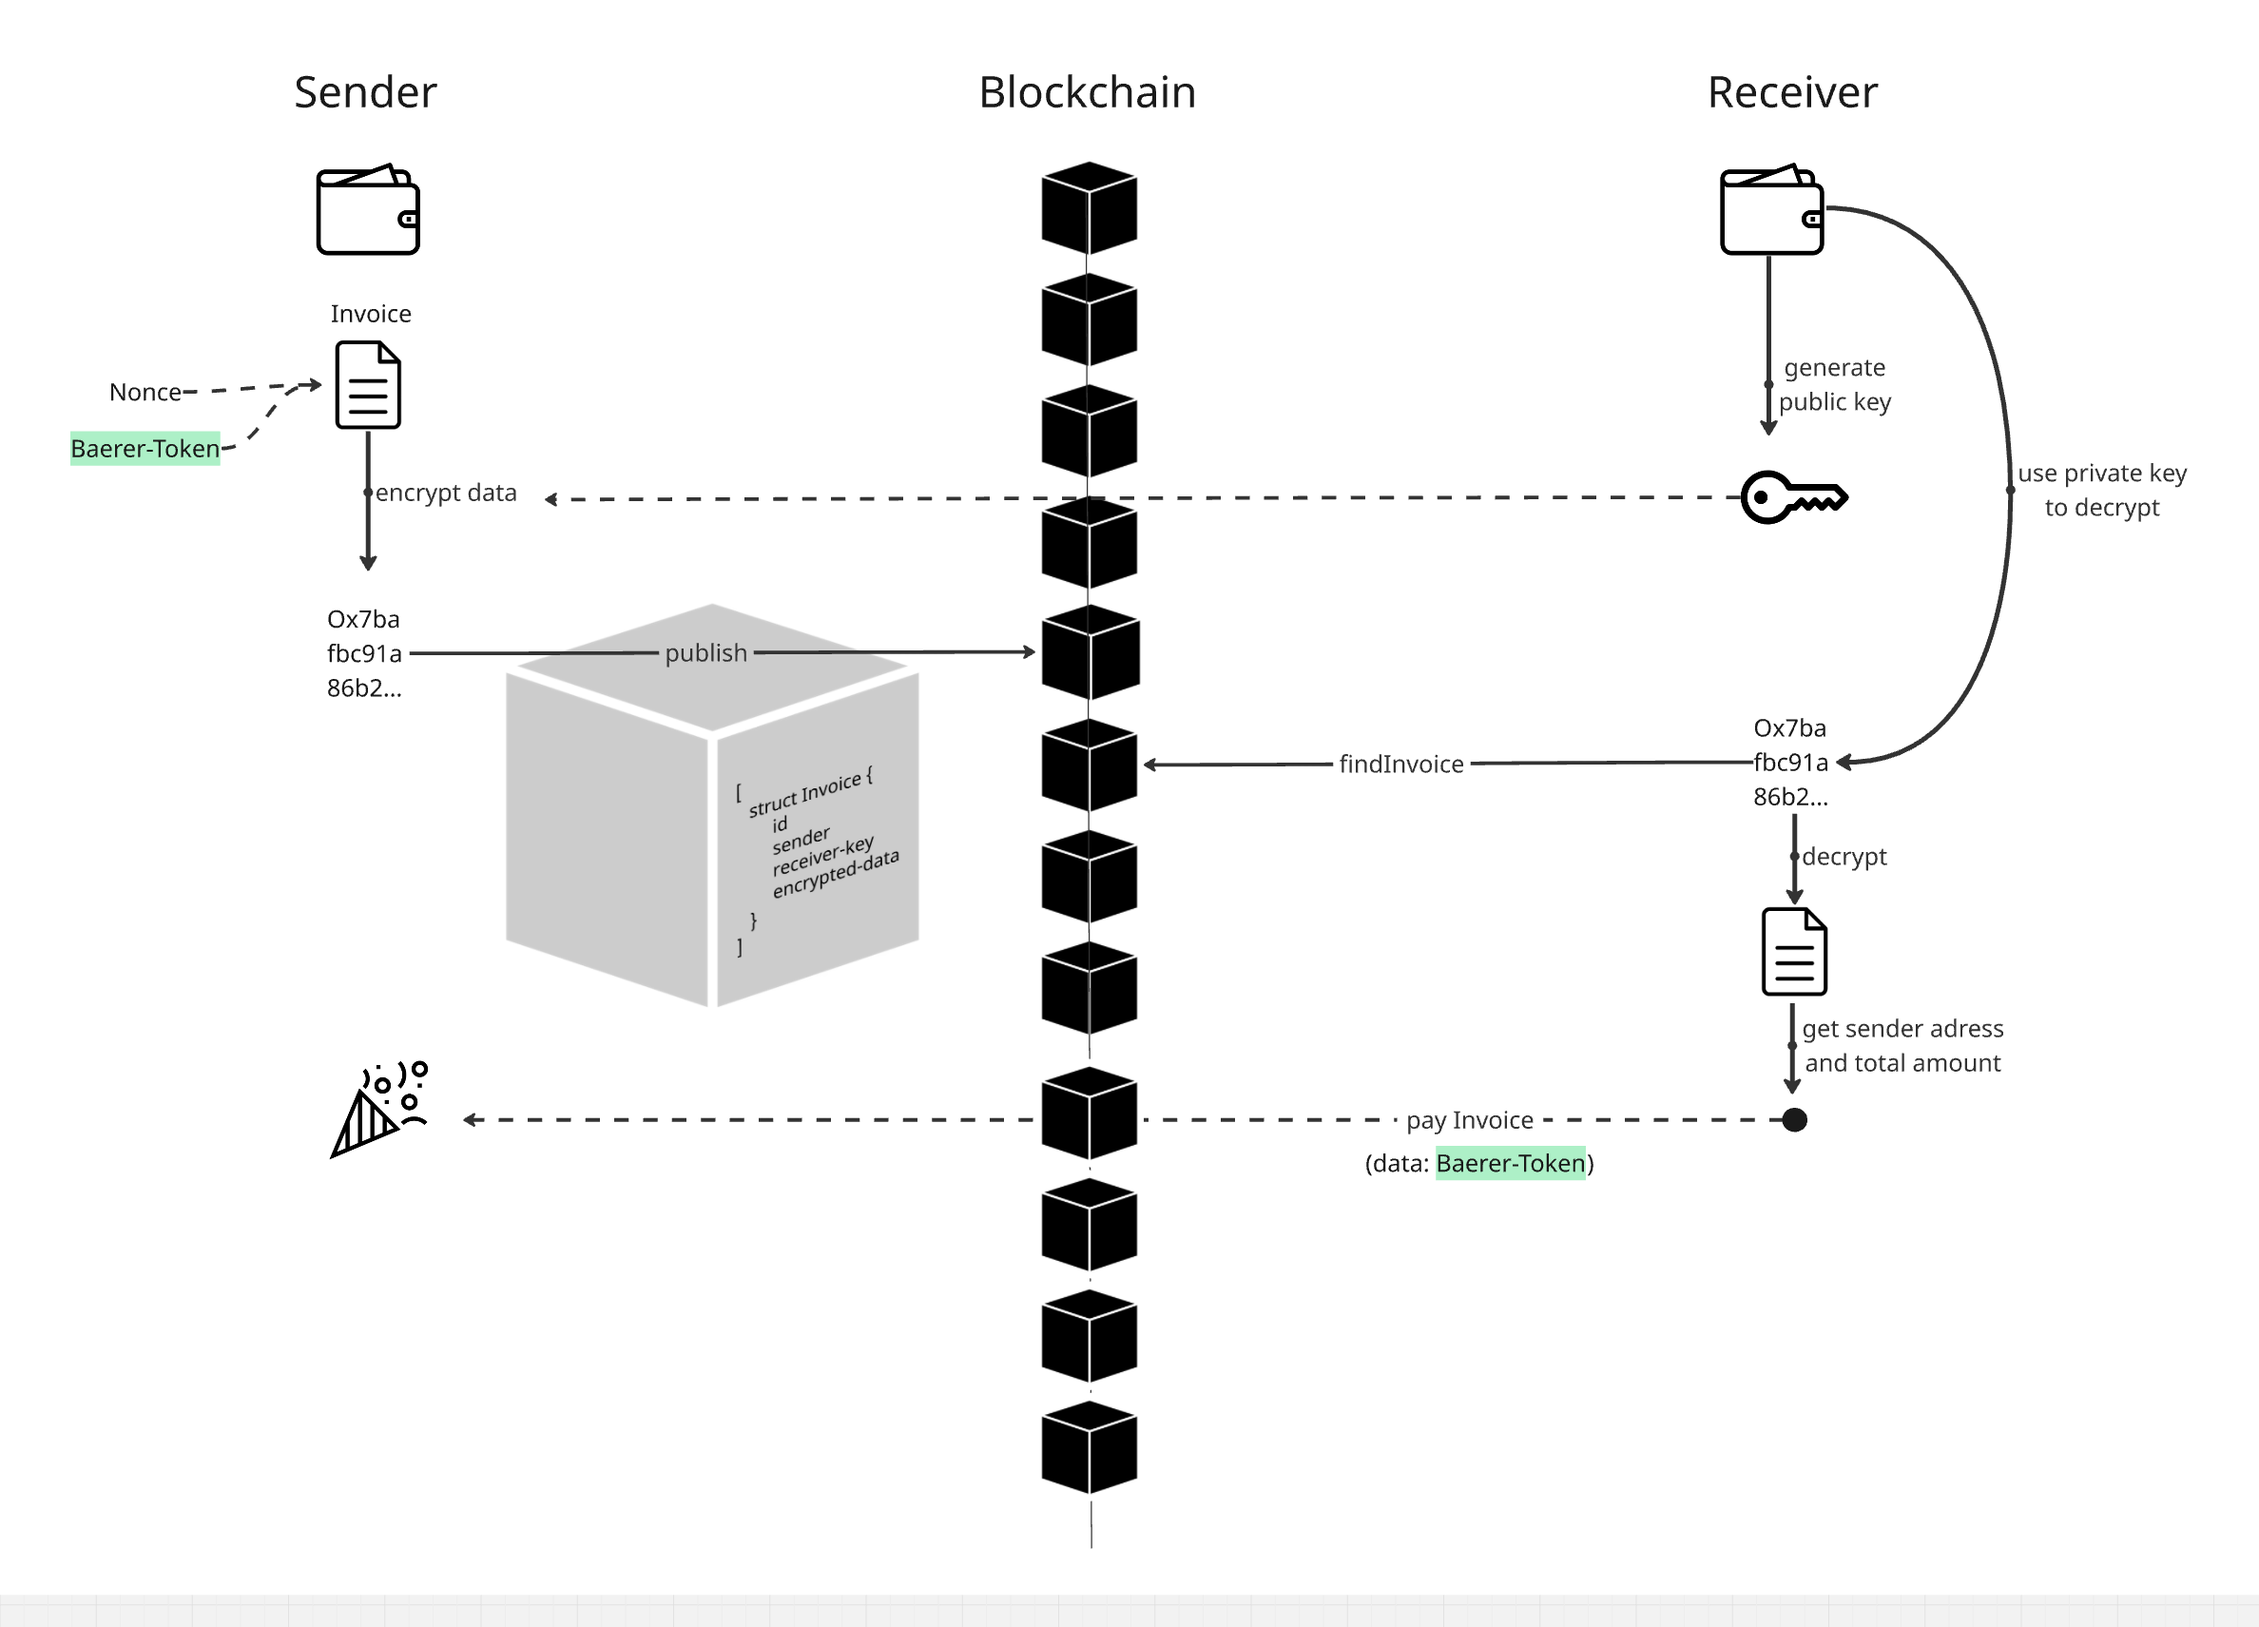
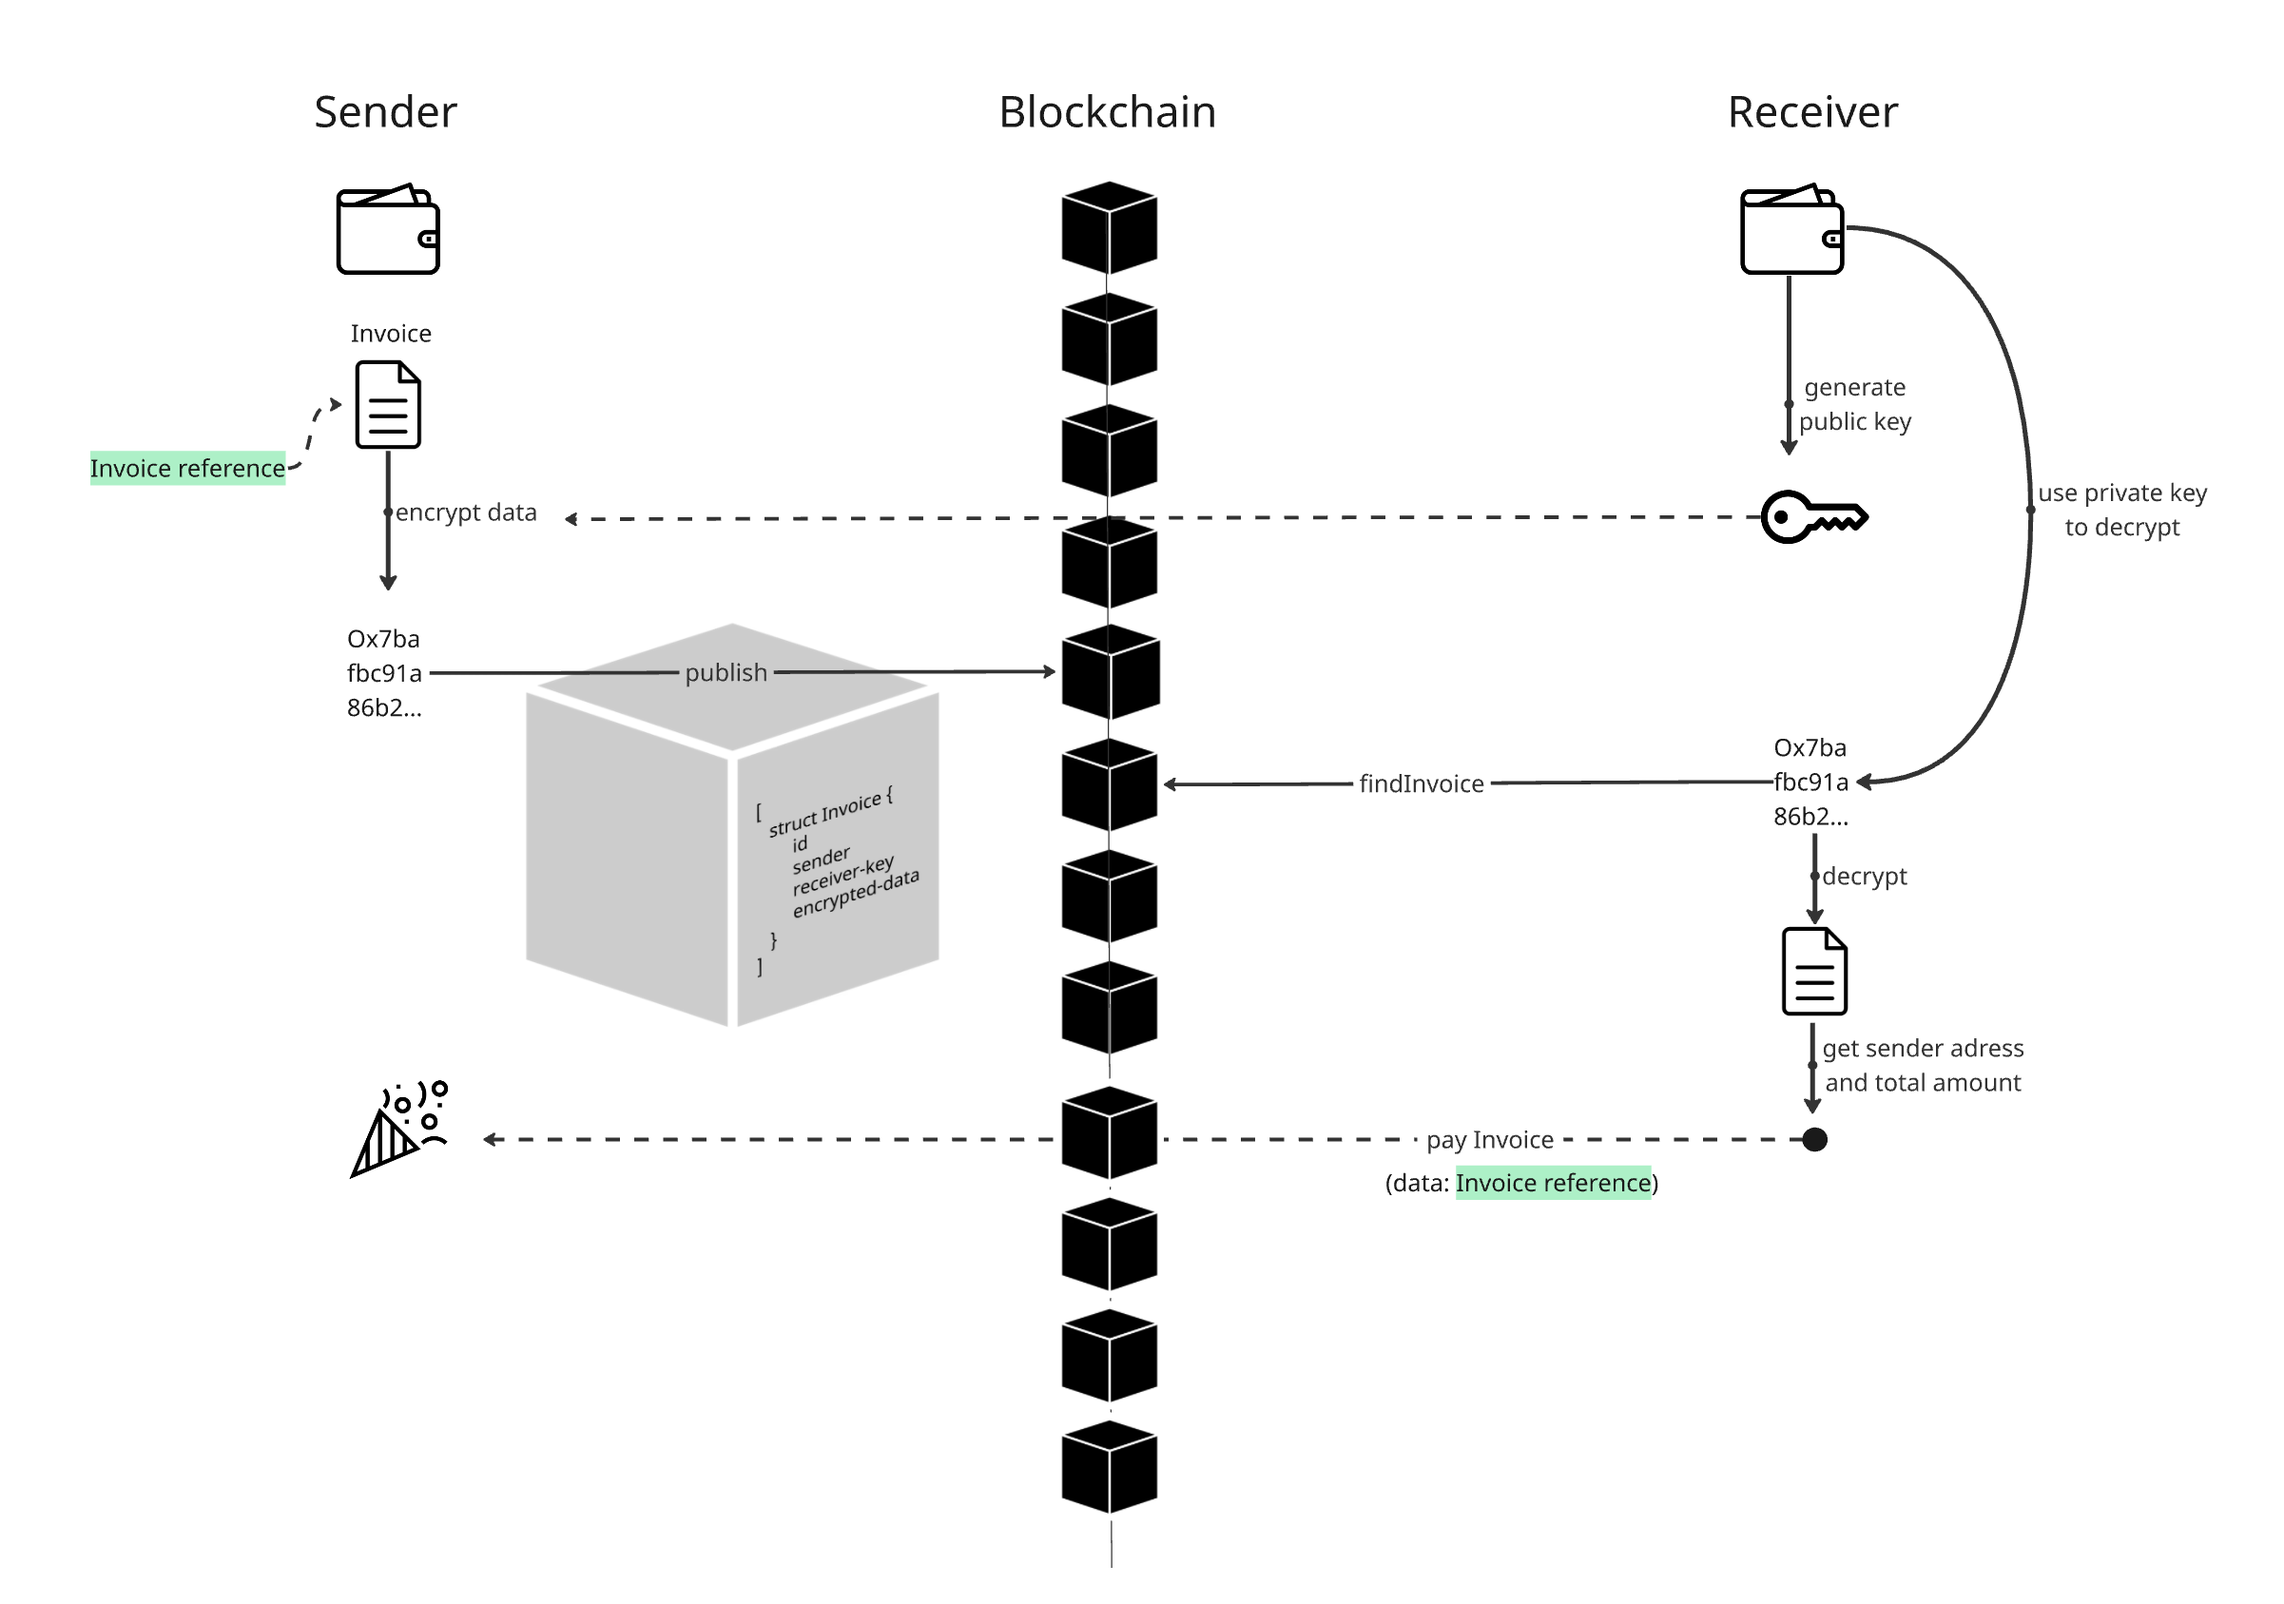
fix: rename baeer-token to invoice-reference and clean

diff --git a/src/SenderView.jsx b/src/SenderView.jsx
@@ -6,19 +6,7 @@ import { bufferToHex } from 'ethereumjs-util';
 
 const ENCRYPTION_VERSION = 'x25519-xsalsa20-poly1305'
 
-function generateId() {
-  return '0x' + Array.from(crypto.getRandomValues(new Uint8Array(32)))
-    .map(b => b.toString(16).padStart(2, '0')).join('');
-}
-
-function generateRandomNumber(length = 16) {
-  const array = new Uint8Array(length);
-  window.crypto.getRandomValues(array);
-  return Array.from(array, b => b.toString(16).padStart(2, '0')).join('');
-}
-
-// Replace generateRandomNumber for bearerToken with a function that generates a hex value of desired length
-function generateBearerTokenHex(length = 32) {
+function generateInvoiceReference(length = 32) {
   const array = new Uint8Array(length);
   window.crypto.getRandomValues(array);
   return '0x' + Array.from(array, b => b.toString(16).padStart(2, '0')).join('');
@@ -120,8 +108,6 @@ export default function SenderView({ account, setAccount, connectMetaMask, jsonD
   const [vat, setVat] = useState("8.1"); 
   const [jsonInput, setJsonInput] = useState("");
   const [errors, setErrors] = useState({});
-  const [invoice, setInvoice] = useState(null);
-
   const [lineItems, setLineItems] = useState([]);
   const [paymentDueDate, setPaymentDueDate] = useState("");
 
@@ -161,8 +147,7 @@ export default function SenderView({ account, setAccount, connectMetaMask, jsonD
       totalAmount,
       totalAmountWithVat,
       paymentDueDate,
-      nonce: generateRandomNumber(),
-      bearerToken: generateBearerTokenHex() // <-- hex value as bearerToken
+      invoiceReference: generateInvoiceReference() 
     };
     const jsonStr = JSON.stringify(jsonObj, null, 2);
     setJsonInput(jsonStr);
@@ -194,40 +179,36 @@ export default function SenderView({ account, setAccount, connectMetaMask, jsonD
     await contract.createInvoice(receiverKeyBytes32, encryptedData);
   };
 
-  // Helper to store invoice info in localStorage
-  function storeInvoiceLocally(bearerToken, totalAmount, paymentDueDate) {
+  function storeInvoiceLocally(invoiceReference, totalAmount, paymentDueDate) {
     const key = 'localInvoices';
     const invoices = JSON.parse(localStorage.getItem(key) || '[]');
-    invoices.push({ bearerToken, totalAmount, paymentDueDate });
+    invoices.push({ invoiceReference, totalAmount, paymentDueDate });
     localStorage.setItem(key, JSON.stringify(invoices));
   }
 
-  // Helper to get all locally stored invoices
   function getLocalInvoices() {
     return JSON.parse(localStorage.getItem('localInvoices') || '[]');
   }
 
-  // Helper to fetch incoming payments from Moonscan (Moonbase Alpha)
-  async function getIncomingPayments(account, bearerTokens) {
+  async function getIncomingPayments(account, invoiceReferences) {
     const chainId = parseInt(CHAIN_ID, 16);
     const url = `https://api.etherscan.io/v2/api?chainid=${chainId}&module=account&action=txlist&address=${account}&sort=desc&apikey=${ETHERSCAN_API_KEY}`;
     const res = await fetch(url);
     const data = await res.json();
     if (!data.result) return [];
 
-    // Filter incoming txs with a matching bearerToken in the data field
     return data.result
       .filter(tx =>
         tx.to && tx.to.toLowerCase() === account.toLowerCase() &&
         tx.input &&
-        bearerTokens.some(token => tx.input.toLowerCase().includes(token.toLowerCase()))
+        invoiceReferences.some(ref => tx.input.toLowerCase().includes(ref.toLowerCase()))
       )
       .map(tx => ({
         txHash: tx.hash,
         from: tx.from,
         amount: ethers.utils.formatEther(tx.value),
-        bearerToken: bearerTokens.find(token => tx.input.toLowerCase().includes(token.toLowerCase())),
-        timestamp: tx.timeStamp // unix timestamp as string
+        invoiceReference: invoiceReferences.find(ref => tx.input.toLowerCase().includes(ref.toLowerCase())),
+        timestamp: tx.timeStamp
       }));
   }
 
@@ -247,8 +228,7 @@ export default function SenderView({ account, setAccount, connectMetaMask, jsonD
 
         const receiverKeyInBytes = receiverPubKey;
 
-        // Store invoice info locally
-        storeInvoiceLocally(jsonData.bearerToken, jsonData.totalAmountWithVat, jsonData.paymentDueDate);
+        storeInvoiceLocally(jsonData.invoiceReference, jsonData.totalAmountWithVat, jsonData.paymentDueDate);
 
         await callCreateInvoice(receiverKeyInBytes, encryptedDataBuffer);
         alert("Invoice created, encrypted and sent to the smart contract!");
@@ -260,7 +240,7 @@ export default function SenderView({ account, setAccount, connectMetaMask, jsonD
 
   const [sentInvoices, setSentInvoices] = useState([]);
   const [loadingInvoices, setLoadingInvoices] = useState(false);
-  const [paymentsSummary, setPaymentsSummary] = useState([]); // [{bearerToken, sum, paymentDueDate}]
+  const [paymentsSummary, setPaymentsSummary] = useState([]); 
 
   const handleLoadSentInvoices = async () => {
     if (!account) {
@@ -277,20 +257,17 @@ export default function SenderView({ account, setAccount, connectMetaMask, jsonD
       const invoices = await contract.getInvoicesForSender(start, count);
       setSentInvoices(invoices);
 
-      // Load local invoices and fetch payments for their bearerTokens
       const localInvoices = getLocalInvoices();
-      const bearerTokens = localInvoices.map(inv => inv.bearerToken);
-      const payments = await getIncomingPayments(account, bearerTokens);
+      const invoiceReferences = localInvoices.map(inv => inv.invoiceReference);
+      const payments = await getIncomingPayments(account, invoiceReferences);
 
-      // Summarize payments by bearerToken
-      const summary = bearerTokens.map(token => {
-        const invoice = localInvoices.find(inv => inv.bearerToken === token);
+      const summary = invoiceReferences.map(ref => {
+        const invoice = localInvoices.find(inv => inv.invoiceReference === ref);
         const sum = payments
-          .filter(p => p.bearerToken === token)
+          .filter(p => p.invoiceReference === ref)
           .reduce((acc, p) => acc + parseFloat(p.amount), 0);
         return {
-          invoiceId: invoice && invoice.id ? invoice.id : "", // Add invoiceId if available
-          bearerToken: token,
+          invoiceReference: ref,
           paymentDueDate: invoice ? invoice.paymentDueDate : "",
           totalAmount: invoice ? invoice.totalAmount : "",
           sum: sum
@@ -424,13 +401,11 @@ export default function SenderView({ account, setAccount, connectMetaMask, jsonD
           <div>Loading...</div>
         ) : (
           <>
-            {/* Only show Incoming Payments Summary table */}
             <h4 style={{ marginTop: 30 }}>Incoming Payments Summary</h4>
             <table style={{ width: '100%', borderCollapse: 'collapse', fontSize: 14, marginTop: 8 }}>
               <thead>
                 <tr>
-                  {/* Removed Invoice ID column */}
-                  <th style={{ borderBottom: '1px solid #ccc' }}>Bearer Token</th>
+                  <th style={{ borderBottom: '1px solid #ccc' }}>Invoice Reference</th>
                   <th style={{ borderBottom: '1px solid #ccc' }}>Payment Due Date</th>
                   <th style={{ borderBottom: '1px solid #ccc' }}>Invoice Amount</th>
                   <th style={{ borderBottom: '1px solid #ccc' }}>Total Received</th>
@@ -438,14 +413,14 @@ export default function SenderView({ account, setAccount, connectMetaMask, jsonD
               </thead>
               <tbody>
                 {paymentsSummary.map((p, idx) => (
-                  <tr key={p.bearerToken + idx}>
+                  <tr key={p.invoiceReference + idx}>
                     <td
                       style={{ borderBottom: '1px solid #eee', wordBreak: 'break-all', maxWidth: 180, cursor: 'pointer' }}
-                      title={p.bearerToken}
+                      title={p.invoiceReference}
                     >
-                      {typeof p.bearerToken === "string" && p.bearerToken.length > 12
-                        ? `${p.bearerToken.slice(0, 6)}...${p.bearerToken.slice(-6)}`
-                        : p.bearerToken}
+                      {typeof p.invoiceReference === "string" && p.invoiceReference.length > 12
+                        ? `${p.invoiceReference.slice(0, 6)}...${p.invoiceReference.slice(-6)}`
+                        : p.invoiceReference}
                     </td>
                     <td style={{ borderBottom: '1px solid #eee' }}>{p.paymentDueDate}</td>
                     <td style={{ borderBottom: '1px solid #eee' }}>{p.totalAmount}</td>

diff --git a/src/ReceiverView.jsx b/src/ReceiverView.jsx
@@ -139,7 +139,6 @@ export default function ReceiverView({ account, connectMetaMask }) {
             </button>
           ) : (
             <>
-              {/* QR code with hex public key */}
               <QRCodeSVG value={receiverKeyHex} size={180} />
               <div style={{ display: 'flex', justifyContent: 'center', marginTop: 10 }}>
                 <input
